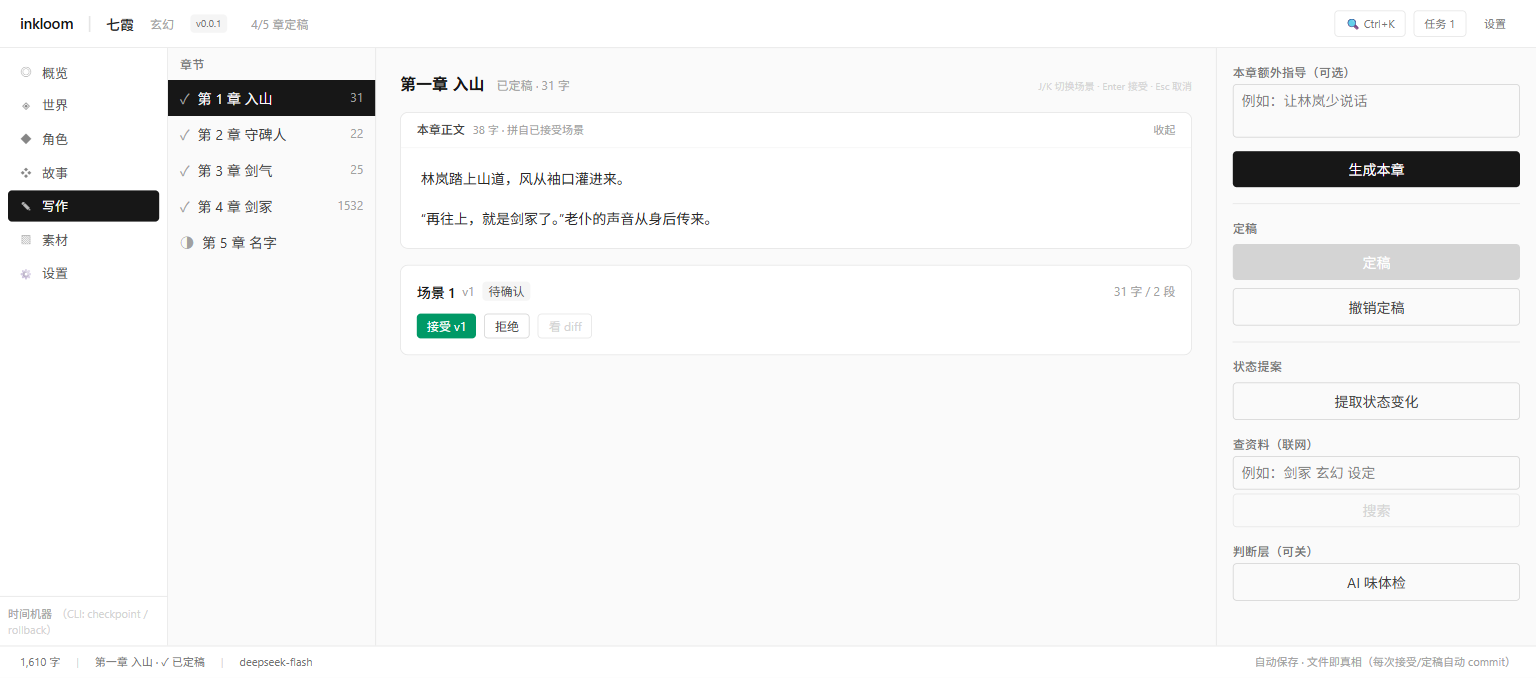
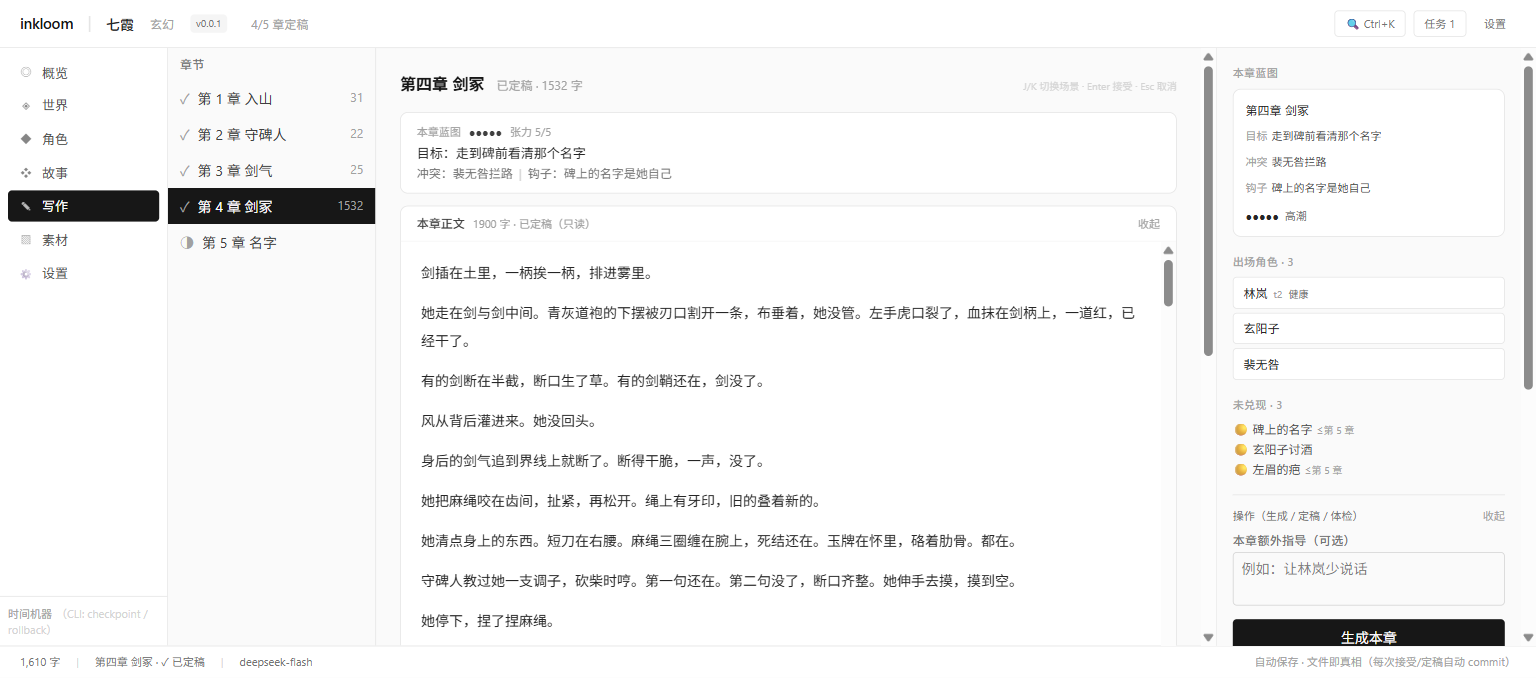
feat(web): 写作页按 spec 拆右栏——本章蓝图/出场角色/未兑现，操作折叠；中栏加蓝图头

diff --git a/apps/web/src/components/ChapterPanel.tsx b/apps/web/src/components/ChapterPanel.tsx
@@ -1,0 +1,160 @@
+import { useState } from 'react'
+import { useBlueprints, useCharacters, useThreads } from '../api/hooks'
+import type { ChapterDetail } from '../api/types'
+import { Toolbar } from './Toolbar'
+
+const BEAT_LABEL: Record<string, string> = {
+  setup: '铺垫',
+  rising: '上升',
+  climax: '高潮',
+  twist: '转折',
+  falling: '回落',
+  resolution: '收束',
+}
+
+/**
+ * 写作页右栏（spec §4.13）：本章蓝图 / 出场角色 / 未兑现 + 折叠的操作区。
+ *
+ * ★ 顺序不是随意的：写之前先看「这章要干什么」（蓝图），再看「谁在场」
+ *   （角色状态），最后看「有没有欠读者的账」（未兑现）。操作按钮收在最后，
+ *   因为它们是执行，不是判断依据。
+ * ★ 「状态可能过时」来自 character.stateStale：正文已经写到角色状态
+ *   发生变化的那一章之后，而角色卡还没更新——不提示的话，作者会拿旧状态写。
+ */
+export function ChapterPanel({ chapter }: { chapter: ChapterDetail | undefined }) {
+  const chapterNo = chapter?.chapterNo ?? 0
+  const { data: bp } = useBlueprints()
+  const { data: cast } = useCharacters()
+  const { data: threads } = useThreads()
+  const [tools, setTools] = useState(false)
+
+  const blue = bp?.chapters.find((c) => c.chapterNo === chapterNo)
+  const castIds = blue?.castIds ?? []
+  const castRows = (cast ?? []).filter((c) => castIds.includes(c.id))
+  const active = (threads?.threads ?? []).filter((t) => t.status === 'active')
+  const overdue = active.filter((t) => t.overdue)
+
+  return (
+    <aside className="flex w-[320px] shrink-0 flex-col overflow-y-auto border-l border-neutral-200 bg-neutral-50">
+      <div className="space-y-4 p-4">
+        <section>
+          <h3 className="mb-2 text-[11px] font-medium tracking-wide text-neutral-400">本章蓝图</h3>
+          {blue === undefined ? (
+            <p className="text-[12px] text-neutral-400">
+              还没有第 {chapterNo} 章蓝图，去「故事」建一个再写。
+            </p>
+          ) : (
+            <div className="space-y-1.5 rounded-lg border border-neutral-200 bg-white p-3 text-[12px]">
+              <p className="text-neutral-800">{blue.title ?? `第 ${chapterNo} 章`}</p>
+              <Field k="目标" v={blue.goal} />
+              <Field k="冲突" v={blue.conflict} />
+              <Field k="钩子" v={blue.hook} />
+              <div className="flex items-center gap-1.5 pt-1 text-[11px] text-neutral-500">
+                <span
+                  role="img"
+                  className="text-neutral-800"
+                  title={`张力 ${blue.tensionLevel}/5`}
+                  aria-label={`张力 ${blue.tensionLevel} / 5`}
+                >
+                  {'●'.repeat(blue.tensionLevel)}
+                  {'○'.repeat(Math.max(0, 5 - blue.tensionLevel))}
+                </span>
+                <span>{BEAT_LABEL[blue.beatType] ?? blue.beatType}</span>
+              </div>
+            </div>
+          )}
+        </section>
+
+        <section>
+          <h3 className="mb-2 text-[11px] font-medium tracking-wide text-neutral-400">
+            出场角色 {castRows.length > 0 ? `· ${castRows.length}` : ''}
+          </h3>
+          {castRows.length === 0 ? (
+            <p className="text-[12px] text-neutral-400">
+              {castIds.length === 0 ? '蓝图里还没填出场角色' : '角色卡里找不到这些 id'}
+            </p>
+          ) : (
+            <ul className="space-y-1">
+              {castRows.map((c) => (
+                <li
+                  key={c.id}
+                  className="rounded border border-neutral-200 bg-white px-2.5 py-1.5 text-[12px]"
+                >
+                  <div className="flex items-baseline gap-1.5">
+                    <span className="text-neutral-800">{c.name}</span>
+                    {c.curTierId !== undefined && (
+                      <span className="text-[10px] text-neutral-400">{c.curTierId}</span>
+                    )}
+                    {c.curPhysical !== undefined && c.curPhysical !== '' && (
+                      <span className="text-[10px] text-neutral-500">{c.curPhysical}</span>
+                    )}
+                  </div>
+                  {c.stateStale === true && (
+                    <p className="mt-0.5 text-[10px] text-amber-700">
+                      ⚠ 状态可能过时，先更新角色卡
+                    </p>
+                  )}
+                </li>
+              ))}
+            </ul>
+          )}
+        </section>
+
+        <section>
+          <h3 className="mb-2 text-[11px] font-medium tracking-wide text-neutral-400">
+            未兑现 {active.length > 0 ? `· ${active.length}` : ''}
+            {overdue.length > 0 ? ` · ${overdue.length} 逾期` : ''}
+          </h3>
+          {active.length === 0 ? (
+            <p className="text-[12px] text-neutral-400">没有悬着的线</p>
+          ) : (
+            <ul className="space-y-0.5 text-[12px]">
+              {active.slice(0, 12).map((t) => (
+                <li
+                  key={t.id}
+                  className={t.overdue ? 'text-rose-700' : 'text-neutral-600'}
+                  title={t.payoffHint !== '' ? t.payoffHint : undefined}
+                >
+                  {t.overdue ? '🔴' : '🟡'} {t.title}
+                  {t.payoffWindow !== null && (
+                    <span className="ml-1 text-[10px] text-neutral-400">
+                      ≤第 {t.payoffWindow} 章
+                    </span>
+                  )}
+                </li>
+              ))}
+              {active.length > 12 && (
+                <li className="text-[10px] text-neutral-400">还有 {active.length - 12} 条…</li>
+              )}
+            </ul>
+          )}
+        </section>
+
+        <section className="border-t border-neutral-200 pt-3">
+          <button
+            type="button"
+            onClick={() => setTools(!tools)}
+            className="flex w-full items-center justify-between text-[11px] text-neutral-500"
+          >
+            <span>操作（生成 / 定稿 / 体检）</span>
+            <span className="text-neutral-400">{tools ? '收起' : '展开'}</span>
+          </button>
+          {tools && (
+            <div className="mt-2">
+              <Toolbar chapter={chapter} plain />
+            </div>
+          )}
+        </section>
+      </div>
+    </aside>
+  )
+}
+
+function Field({ k, v }: { k: string; v: string }) {
+  return (
+    <p className="text-[11px] leading-5 text-neutral-600">
+      <span className="mr-1 text-neutral-400">{k}</span>
+      {v}
+    </p>
+  )
+}

diff --git a/apps/web/src/pages/WritingPage.tsx b/apps/web/src/pages/WritingPage.tsx
@@ -1,6 +1,7 @@
 import { useEffect, useState } from 'react'
 import {
   useAcceptScene,
+  useBlueprints,
   useBook,
   useChapter,
   useChapterText,
@@ -11,10 +12,10 @@ import {
 } from '../api/hooks'
 import type { SceneRow } from '../api/types'
 import { ChapterList } from '../components/ChapterList'
+import { ChapterPanel } from '../components/ChapterPanel'
 import { DiffView } from '../components/DiffView'
 import { FocusMode } from '../components/FocusMode'
 import { SceneCard } from '../components/SceneCard'
-import { Toolbar } from '../components/Toolbar'
 import { STATUS_LABEL } from '../lib/status'
 import { useSessionStore } from '../stores/session'
 
@@ -165,6 +166,8 @@ function WriteView() {
           </span>
         </div>
 
+        <ChapterBlueprintHead chapterNo={chapterNo} />
+
         <ChapterTextBlock chapterNo={chapterNo} />
 
         {isLoading && <p className="text-sm text-neutral-500">加载中…</p>}
@@ -233,8 +236,33 @@ function WriteView() {
         )}
       </main>
 
-      <Toolbar chapter={chapter} />
+      <ChapterPanel chapter={chapter} />
       {focus && <FocusMode />}
+    </div>
+  )
+}
+
+/** 中栏顶部的蓝图头：目标 / 冲突 / 张力，写之前先知道这章要干什么 */
+function ChapterBlueprintHead({ chapterNo }: { chapterNo: number }) {
+  const { data } = useBlueprints()
+  const b = data?.chapters.find((c) => c.chapterNo === chapterNo)
+  if (b === undefined) return null
+  return (
+    <div className="mb-3 rounded-lg border border-neutral-200 bg-white px-4 py-2.5">
+      <div className="flex items-center gap-2 text-[11px] text-neutral-400">
+        <span>本章蓝图</span>
+        <span className="text-neutral-700" role="img" aria-label={`张力 ${b.tensionLevel} / 5`}>
+          {'●'.repeat(b.tensionLevel)}
+          {'○'.repeat(Math.max(0, 5 - b.tensionLevel))}
+        </span>
+        <span>张力 {b.tensionLevel}/5</span>
+      </div>
+      <p className="mt-1 text-[13px] text-neutral-800">目标：{b.goal}</p>
+      <p className="mt-0.5 text-[12px] text-neutral-500">
+        冲突：{b.conflict}
+        <span className="mx-1.5 text-neutral-300">|</span>
+        钩子：{b.hook}
+      </p>
     </div>
   )
 }

diff --git a/apps/web/src/components/Toolbar.tsx b/apps/web/src/components/Toolbar.tsx
@@ -13,6 +13,8 @@ import type { ChapterDetail, HealthReport, ProposeResult, SearchResult } from '.
 
 interface Props {
   chapter: ChapterDetail | undefined
+  /** 嵌在右栏里时不要再套一层宽度/边框/背景 */
+  plain?: boolean
 }
 
 /**
@@ -21,7 +23,7 @@ interface Props {
  * ★ 每个按钮的 disabled 都由「数据能否支持这个动作」推出，并附 title 说明原因。
  *   例如定稿要求「本章没有 candidate」——这个规则是后端定的，前端只是把它显示出来。
  */
-export function Toolbar({ chapter }: Props) {
+export function Toolbar({ chapter, plain = false }: Props) {
   const chapterNo = chapter?.chapterNo ?? 0
   const generate = useGenerate()
   const finalize = useFinalize()
@@ -63,8 +65,12 @@ export function Toolbar({ chapter }: Props) {
   }
 
   return (
-    <aside className="w-80 shrink-0 overflow-y-auto border-l border-neutral-200 bg-neutral-50">
-      <div className="space-y-4 p-4">
+    <aside
+      className={
+        plain ? '' : 'w-80 shrink-0 overflow-y-auto border-l border-neutral-200 bg-neutral-50'
+      }
+    >
+      <div className="space-y-4 px-0 py-0">
         <section>
           <label
             htmlFor="guidance"

diff --git a/apps/api/src/routes/read.ts b/apps/api/src/routes/read.ts
@@ -27,6 +27,8 @@ interface BlueprintLite {
   conflict: string
   /** 章末钩子：蓝图表格要展示，也是新建时必填项 */
   hook: string
+  /** 出场角色 id：写作页右栏要用它列「谁出场」 */
+  castIds: string[]
   tensionLevel: number
   beatType: string
 }
@@ -56,6 +58,7 @@ async function listBlueprints(): Promise<BlueprintLite[]> {
       goal: b.goal,
       conflict: b.conflict,
       hook: b.hook,
+      castIds: b.castIds,
       tensionLevel: b.tensionLevel,
       beatType: b.beatType,
     })

diff --git a/apps/web/src/pages/WorldPage.tsx b/apps/web/src/pages/WorldPage.tsx
@@ -404,8 +404,6 @@ function PlacesEditor() {
     )
   }
 
-  const nameOf = new Map(locs.map((l) => [l.id, l.name]))
-
   return (
     <div className="min-h-0 flex-1 overflow-y-auto">
       <div className="mx-auto max-w-5xl space-y-5 p-6">

diff --git a/apps/web/src/api/types.ts b/apps/web/src/api/types.ts
@@ -72,6 +72,7 @@ export interface BlueprintLite {
   goal: string
   conflict: string
   hook: string
+  castIds: string[]
   tensionLevel: number
   beatType: string
 }
